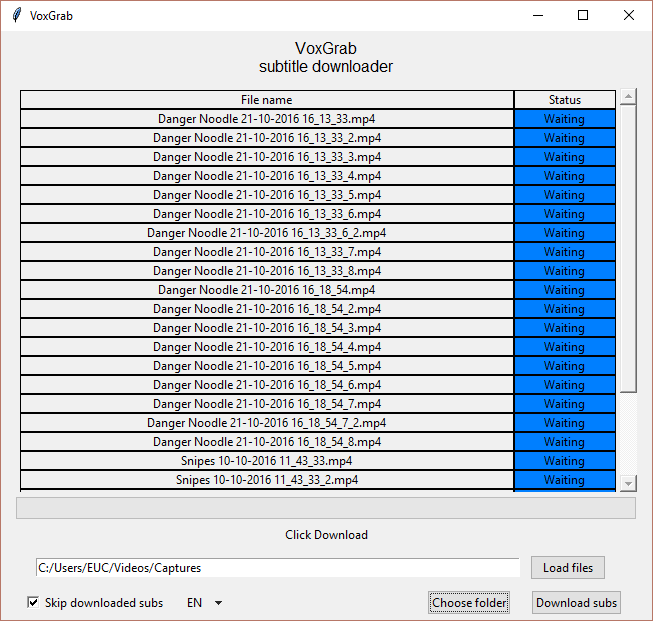
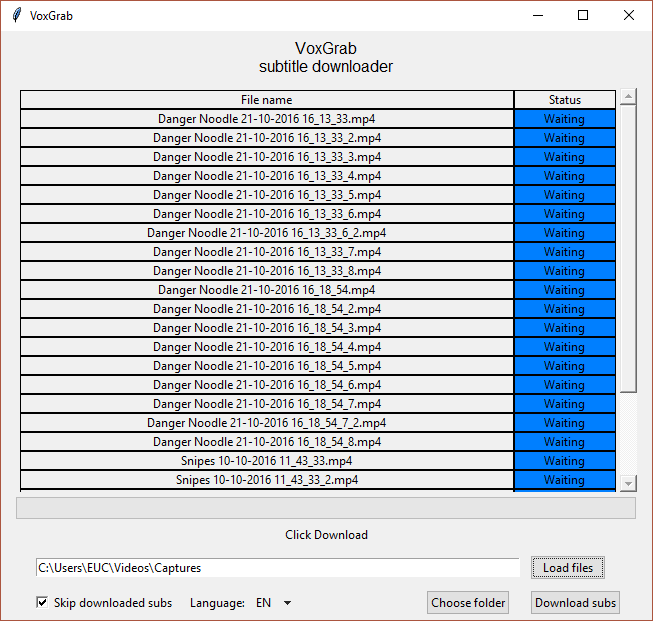
Add label to language chooser, update screenshot

diff --git a/VoxGrab/VoxGrab.py b/VoxGrab/VoxGrab.py
@@ -121,16 +121,18 @@ class VoxGrab(Frame):
         # Create button pane
         Checkbutton(self.button_frame, text='Skip downloaded subs',
                     variable=self.check_flag, justify=LEFT).grid(column=0,
-                                                                 row=1, padx=1,
+                                                                 row=1, padx=10,
                                                                  sticky=W)
-        self.language_selector.grid(column=1, row=1, padx=10, sticky=W)
+        Label(self.button_frame, text='Language:').grid(column=1, row=1)
+        self.language_selector.grid(column=2, row=1, sticky=W)
+
         ttk.Button(self.button_frame, text='Choose folder',
-                   command=self.prompt_directory).grid(column=3, row=1,
+                   command=self.prompt_directory).grid(column=4, row=1,
                                                        padx=10, sticky=E)
         ttk.Button(self.button_frame, text="Download subs",
-                   command=self.download_subs).grid(column=4, row=1,
+                   command=self.download_subs).grid(column=5, row=1,
                                                     padx=10, sticky=E)
-        self.button_frame.grid_columnconfigure(2, minsize=180)
+        self.button_frame.grid_columnconfigure(3, minsize=120)
 
         # Pack it all
         title_label.pack(pady=5)
